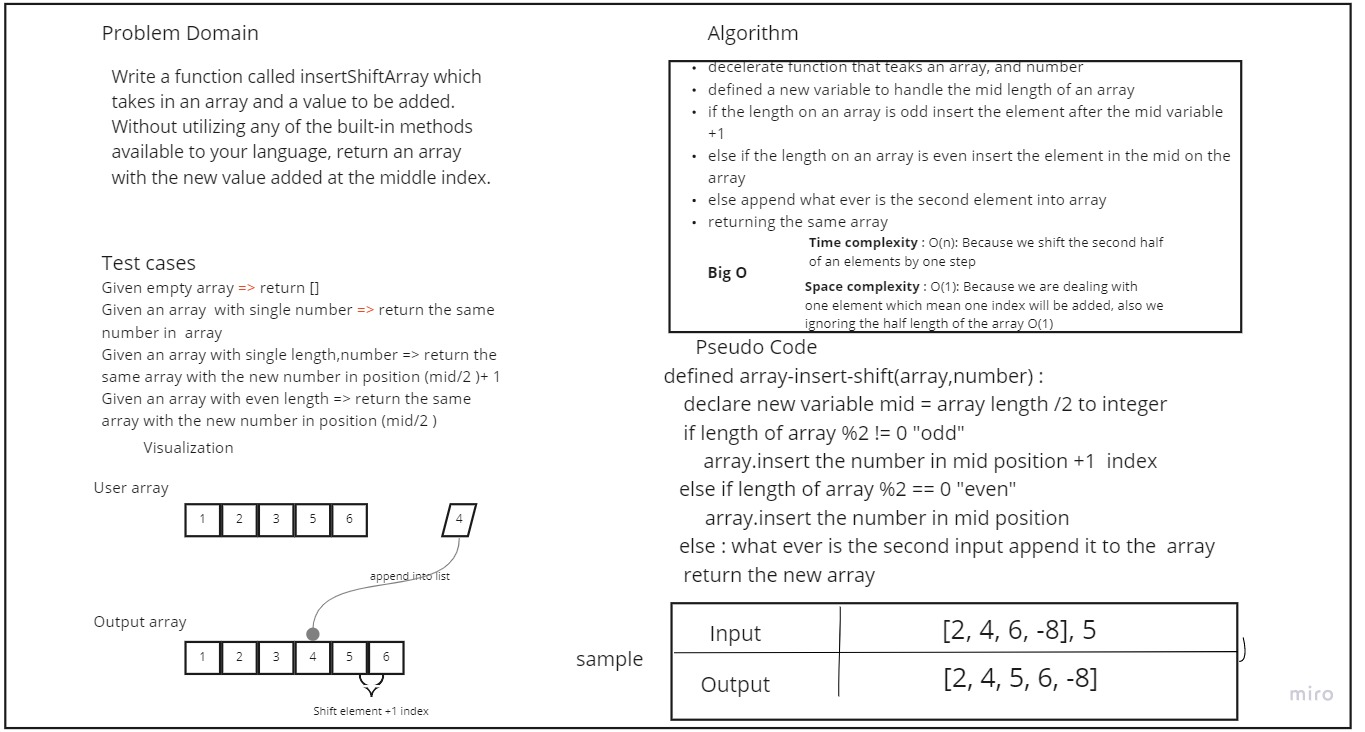
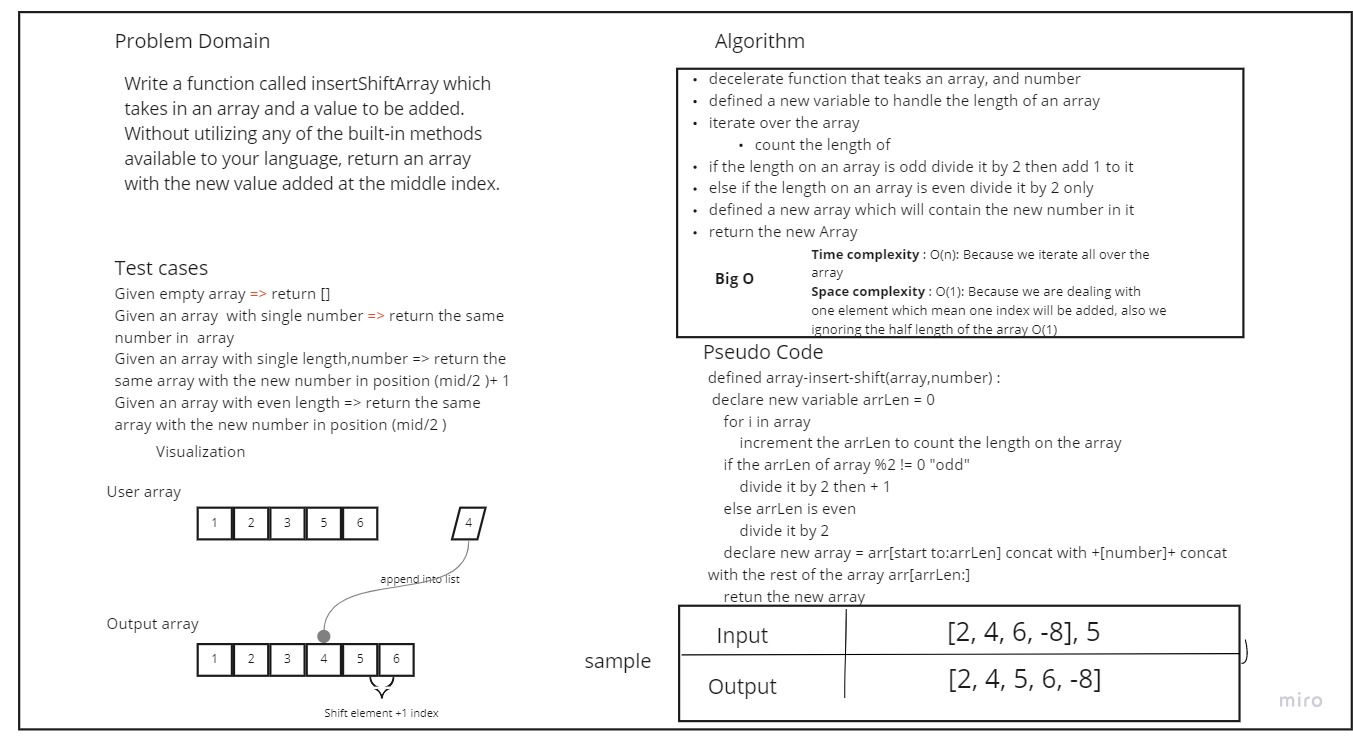
Updat: create new v without the build in functions

diff --git a/array-insert-shift/array-insert-shift.py b/array-insert-shift/array-insert-shift.py
@@ -1,13 +1,41 @@
-def array_insert_shift(arr, num):
-    mid_len = int(len(arr)/2)
-    if len(arr) % 2 != 0:
-        arr.insert(mid_len+1, num)
-    elif len(arr) % 2 == 0:
-        arr.insert(mid_len, num)
+# def array_insert_shift(arr, num):
+#     mid_len = int(len(arr)/2)
+#     if len(arr) % 2 != 0:
+#         arr.insert(mid_len+1, num)
+#     elif len(arr) % 2 == 0:
+#         arr.insert(mid_len, num)
+#     else:
+#         arr.append(num)
+#     return arr
+
+# New function without build in len, insert ,append
+def innset_shift_Array(arr, n):
+    arr_lan = 0
+    for i in arr:
+        arr_lan += 1
+    if(arr_lan % 2 != 0):
+        arr_lan = arr_lan//2 + 1
     else:
-        arr.append(num)
-    return arr
+        arr_lan = arr_lan//2
+    shifted_Array = arr[0:arr_lan] + [n] + arr[arr_lan:]
+    return shifted_Array
 
 
-print(array_insert_shift([2, 4, 6, -8], 5))
-# print(array_insert_shift([42, 8, 15, 23, 42], 16))
+print(innset_shift_Array([2, 4, 9, 6, -8], 5))
+
+
+""" 
+Pseudo Code
+
+defined array-insert-shift(array,number) :
+    declare new variable arrLen = 0 
+    for i in array 
+        increment the arrLen to count the length on the array
+    if the arrLen of array %2 != 0 "odd" 
+        divide it by 2 then + 1
+    else arrLen is even 
+        divide it by 2
+    declare new array = arr[start to:arrLen] concat with +[number]+ concat with the rest of the array arr[arrLen:]
+    retun the new array 
+    
+"""

diff --git a/array-insert-shift/README.md b/array-insert-shift/README.md
@@ -8,7 +8,6 @@
 
 ## Approach & Efficiency
 <!-- What approach did you take? Discuss Why. What is the Big O space/time for this approach? -->
-* I used skip the half of an array then insert
-* I think it's better way to save memory and time.
+* By using for loop to count the len on the array and then check if the len even or odd after that concat the array with the number and return new array
 * Big O time Complexity: O(n)
 * Big O space Complexity: O(1)
